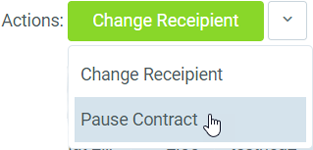
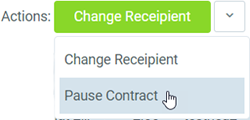
Layout check
- resized png's
- added a break to ref productioncompletion
(this is subsequent to issue #189 )

diff --git a/_webui_collection/EN/ProductionCompletion.md b/_webui_collection/EN/ProductionCompletion.md
@@ -28,7 +28,7 @@ This is the easiest way to produce in metasfresh. The produced quantity is simpl
 1. In the production window, click on the product you want to produce, e.g. "Carrots chopped".
  ![](assets/ProductionCompletion_ProductionWindow.png)
 
-1. Select "Receive HUs" via the quick actions button.
+1. Select "Receive HUs" via the quick actions button.<br>
  ![](assets/ProductionCompletion_Receive_1.png)<br>
  >Note: If the product was assigned Packing Instructions, this will appear on the quick actions button instead of "Receive HUs".
    ![](assets/ProductionCompletion_Receive_2.png)
